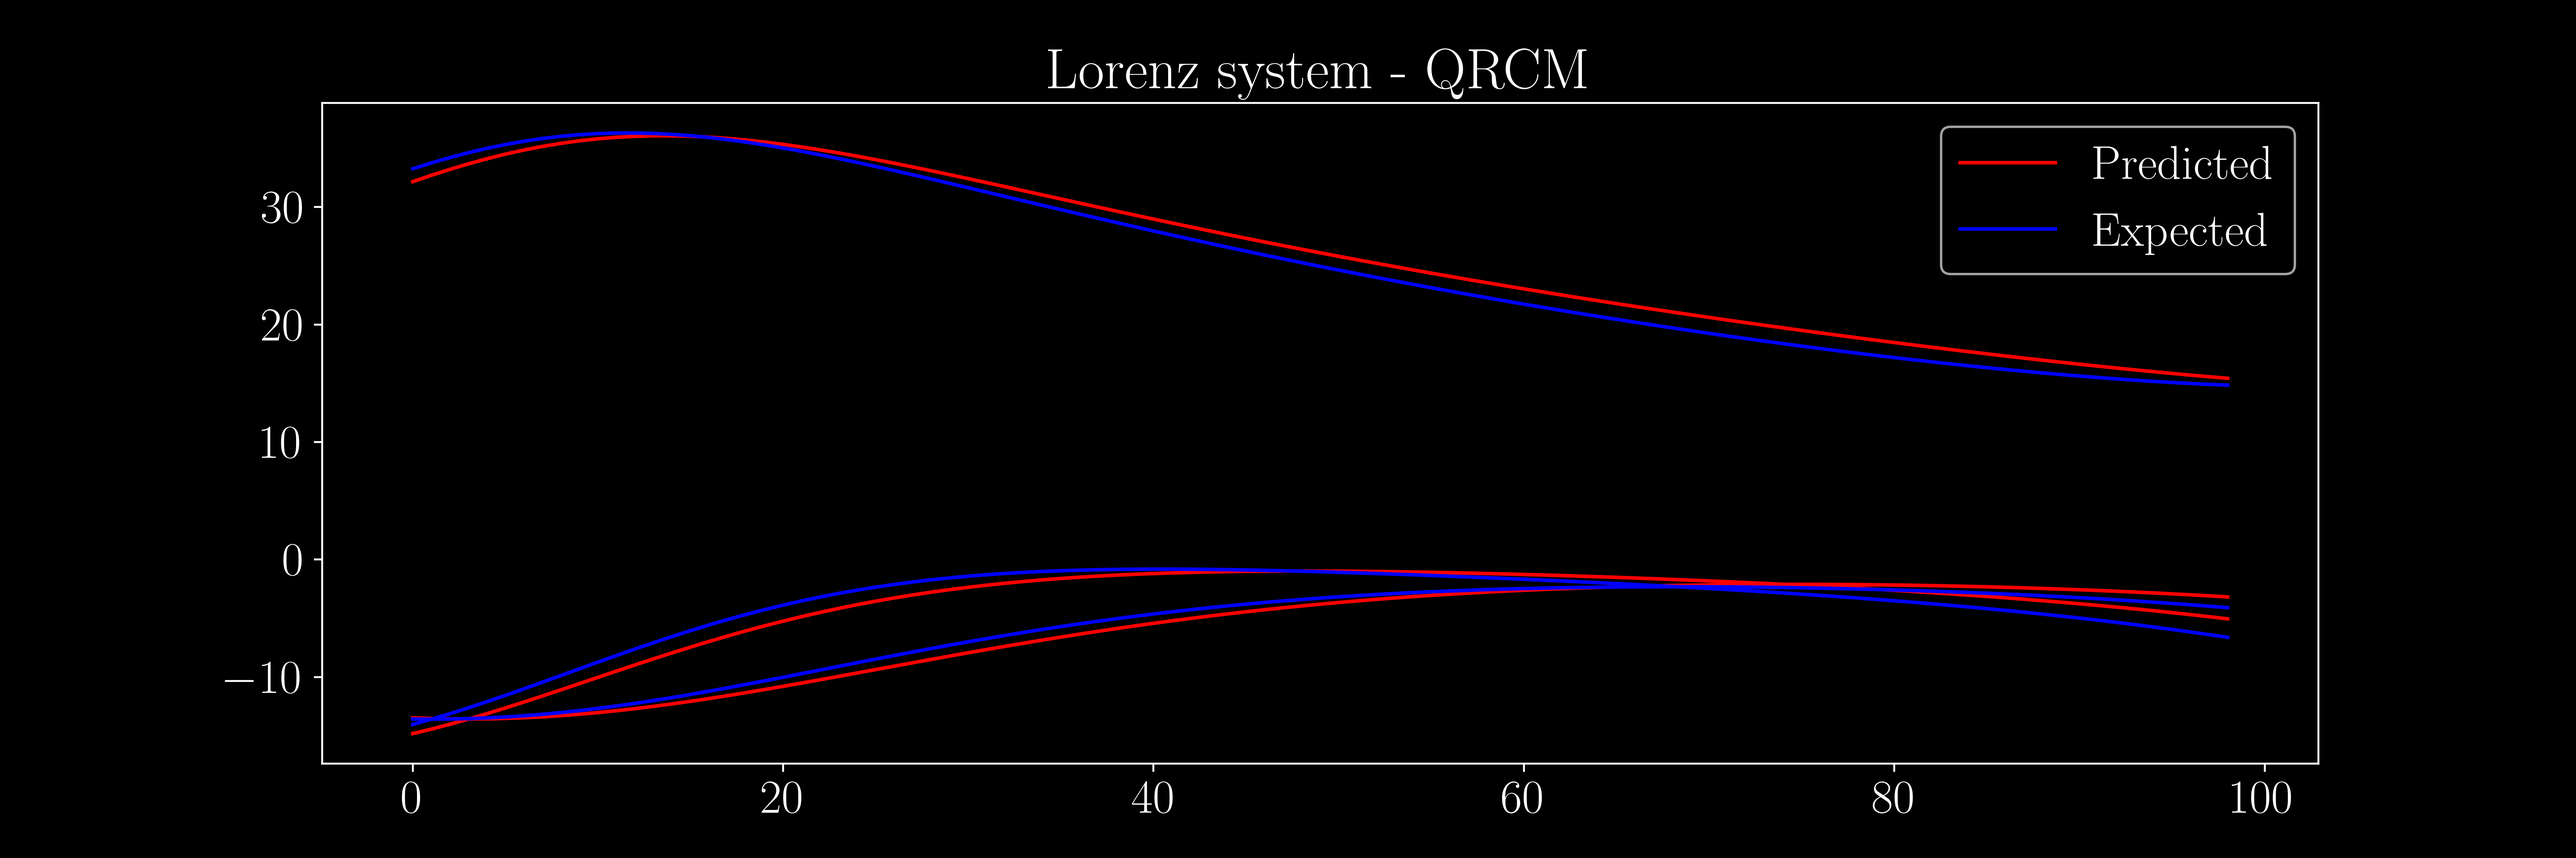
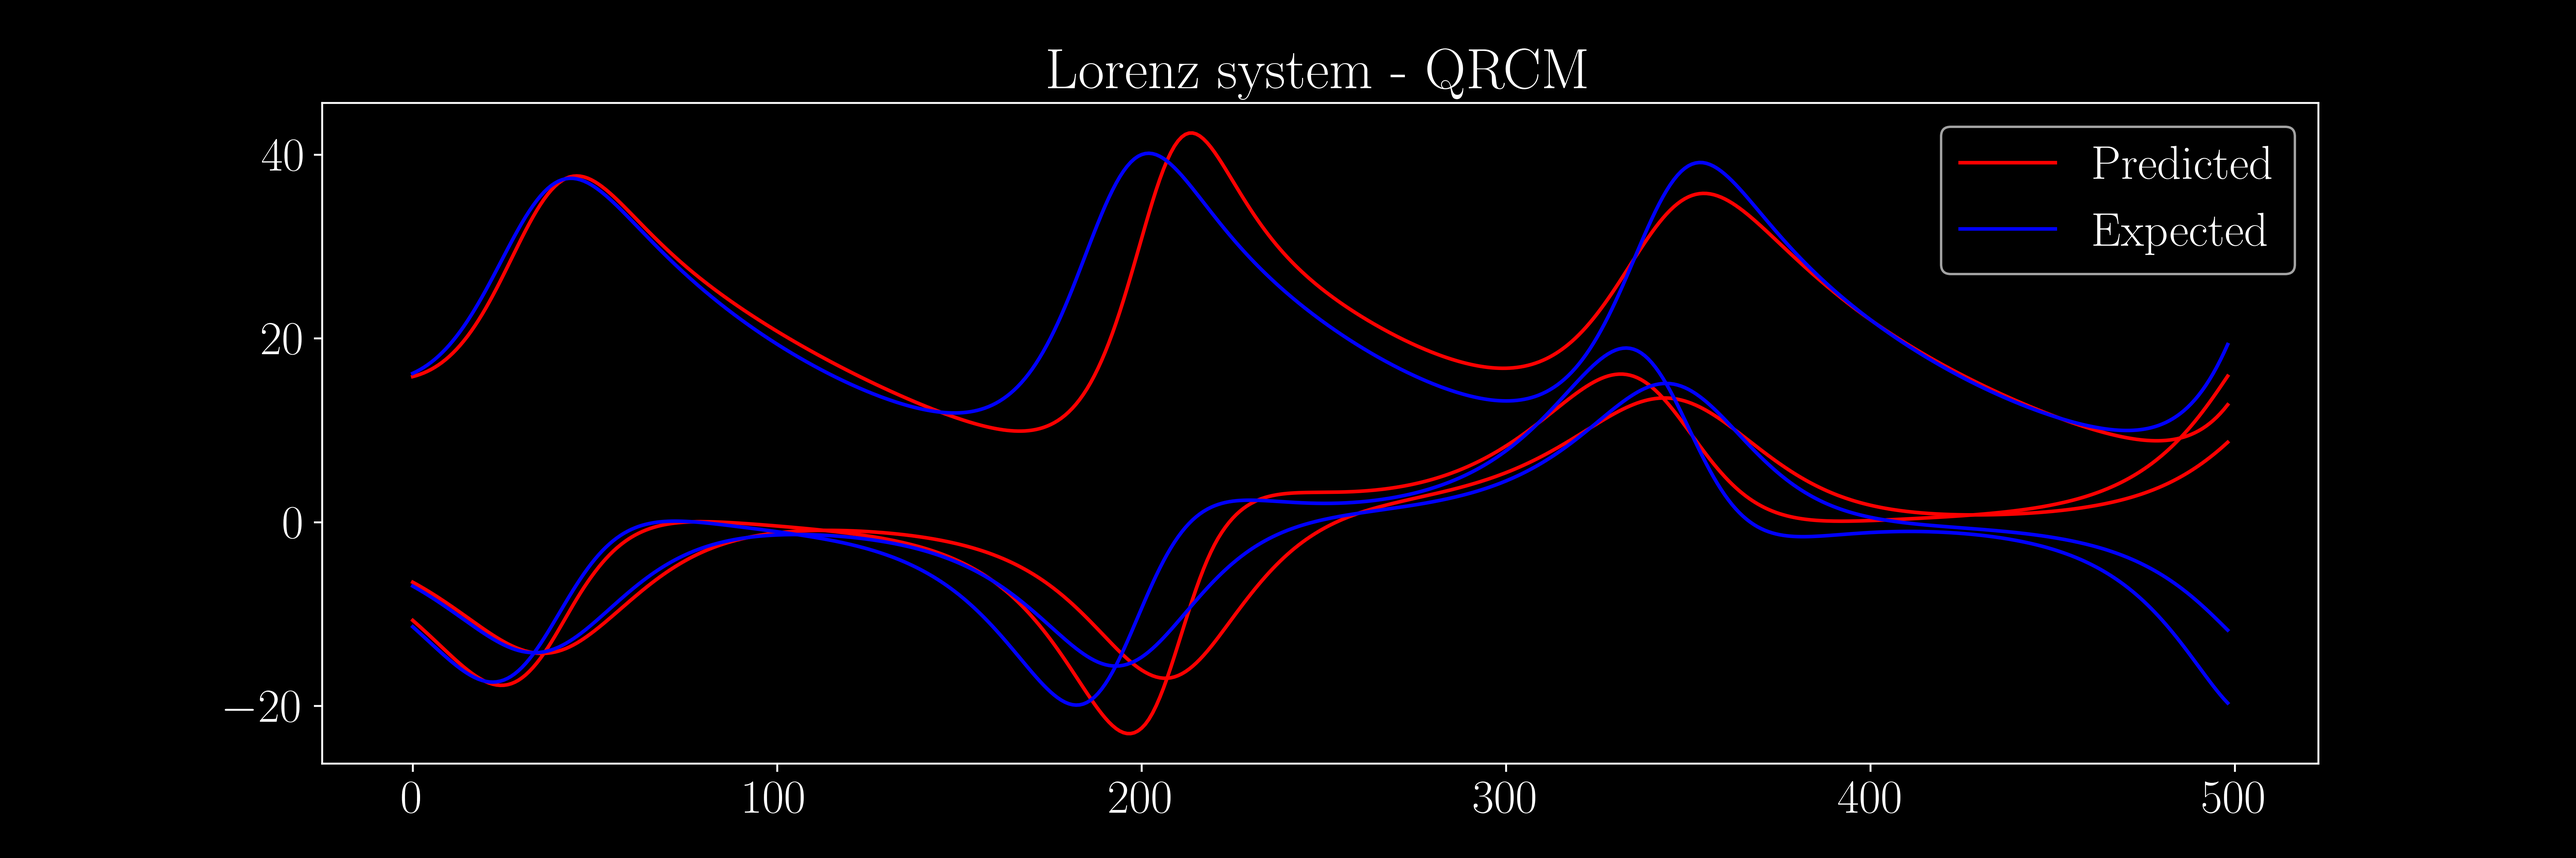
When quantum works better than classical :)

diff --git a/src/main_run.py b/src/main_run.py
@@ -19,9 +19,9 @@ dt              = 0.005 * upsample      # Time step
 params          = [8/3, 28, 10]         # Parameters for the Lorenz system
 
 # Define N for washout, training, validation and testing
-N_washout       = 50
-N_train         = 1000
-N_test          = 100
+N_washout       = 100
+N_train         = 3000
+N_test          = 500
 N_sets          = [N_washout, N_train, N_test]
 
 # Instantiate the solver object
@@ -33,18 +33,19 @@ lor3.generate(override=True)            # Can always be regenerated with an Auto
 
 # %%
 # Initialise the ESN
-# crcm = CRCM(solver=lor3,
-#             N_units=500,
-#             connectivity=10,
-#             eps= 5e-2,
-#             tik= 1e-4,
-#             # sigmoid
-#             activation=lambda x: 1/(1+np.exp(-x)),
-#             seed=0)
+crcm = CRCM(solver=lor3,
+            N_units=1000,
+            connectivity=10,
+            eps= 5e-2,
+            tik= 1e-4,
+            # sigmoid
+            # activation=lambda x: 1/(1+np.exp(-x)),
+            
+            seed=0)
 
-# # Train the ESN with the training data
-# crcm.train()
-# crcm.forward()
+# Train the ESN with the training data
+crcm.train()
+crcm.forward()
 
 # %% [markdown]
 # #### QRCM for Lorenz system
@@ -61,11 +62,4 @@ qrcm = QRCM(solver  = lor3,
 qrcm.train()
 qrcm.forward()
 
-# %%
-# plot the first and second dimension of R vs time
-plt.plot(qrcm.R[3,:])
-print(qrcm.R.shape)
-
-
-
-# %%
+# %% [markdown]

diff --git a/src/backend/QRCM.py b/src/backend/QRCM.py
@@ -103,8 +103,8 @@ class QRCM(RCM):
             self.qc.ry(angle, j, label=f'$R_Y$({name})')
 
             # If not on the last qubit, apply the CNOT gate
-            # if j < n-1: self.qc.cx(j, j+1)
-            # else:       self.qc.cx(j, j-1)    # As per the note above
+            if j < n-1: self.qc.cx(j, j+1)
+            else:       self.qc.cx(j, j-1)    # As per the note above
 
             # Add a barrier if the last qubit has been used (just for visual clarity)
             if j == n-1:  self.qc.barrier()
@@ -124,8 +124,8 @@ class QRCM(RCM):
         self.Unitary(10*P, 'P')
         self.qc.barrier()
         self.Unitary(0.01*X, 'X')
-        # self.qc.barrier()
-        # self.Unitary(0.01*b, 'b')
+        self.qc.barrier()
+        self.Unitary(0.01*b, 'b')
 
         # Run the circuit - find state probability vector using statevector_simulator
         psi     = self.psi      = np.abs(execute(self.qc, self.backend).result().get_statevector())

diff --git a/src/backend/RCM.py b/src/backend/RCM.py
@@ -133,7 +133,7 @@ class RCM:
 
         # Save the figure
         plt.savefig(f"..\FYP Logbook\Diagrams\{self.__class__.__name__}_{self.solver.__class__.__name__}.png", dpi=500)
-        plt.show()
+        # plt.show()
         print(f"psi shape: {self.psi.shape}")
 
 

diff --git a/src/backend/solver/ode.py b/src/backend/solver/ode.py
@@ -137,7 +137,7 @@ class Solver:
 
         if self.ae is not None:    self.autoencode()
 
-        self.plot()
+        # self.plot()
 
 
     def autoencode(self):
